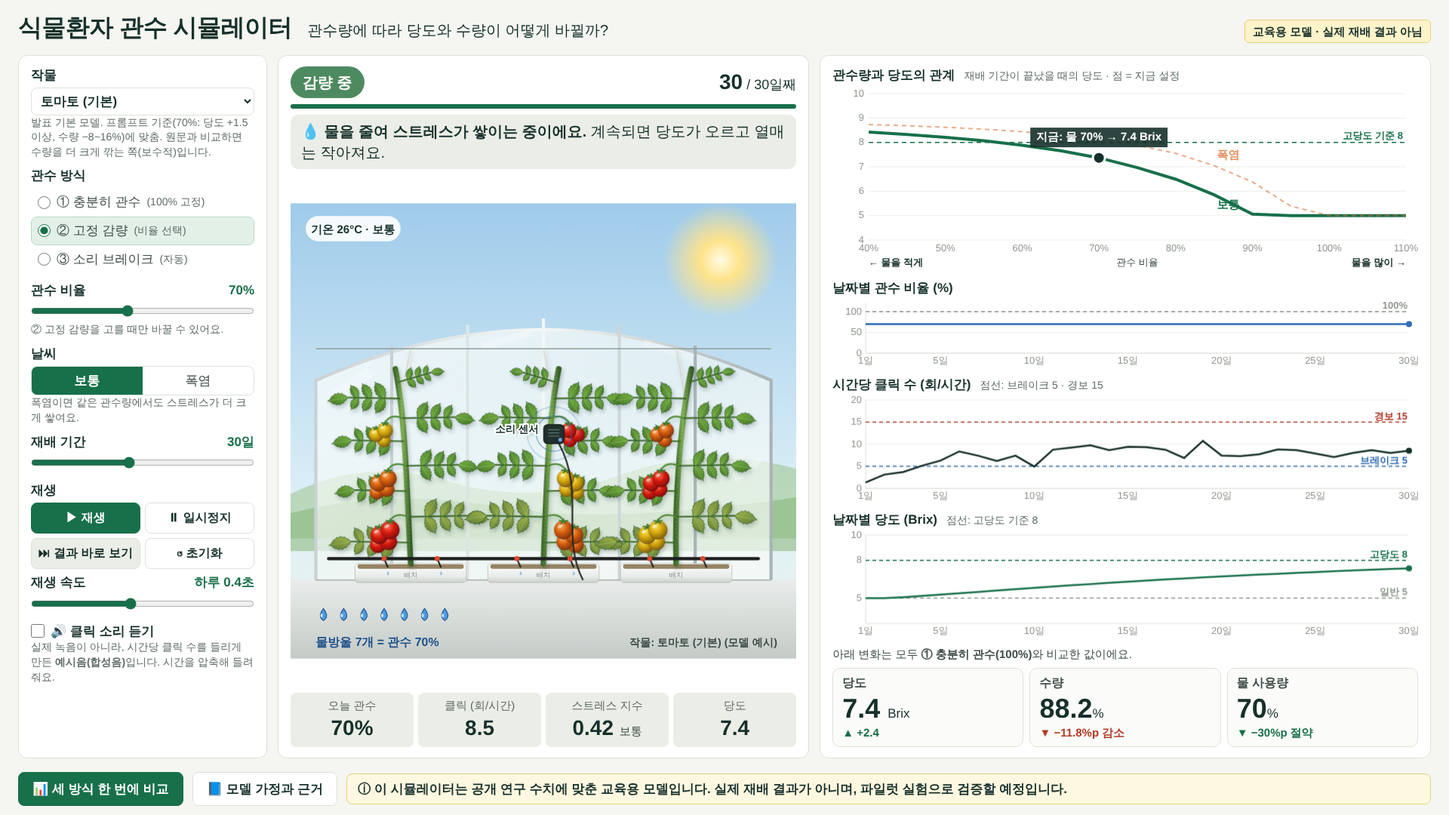
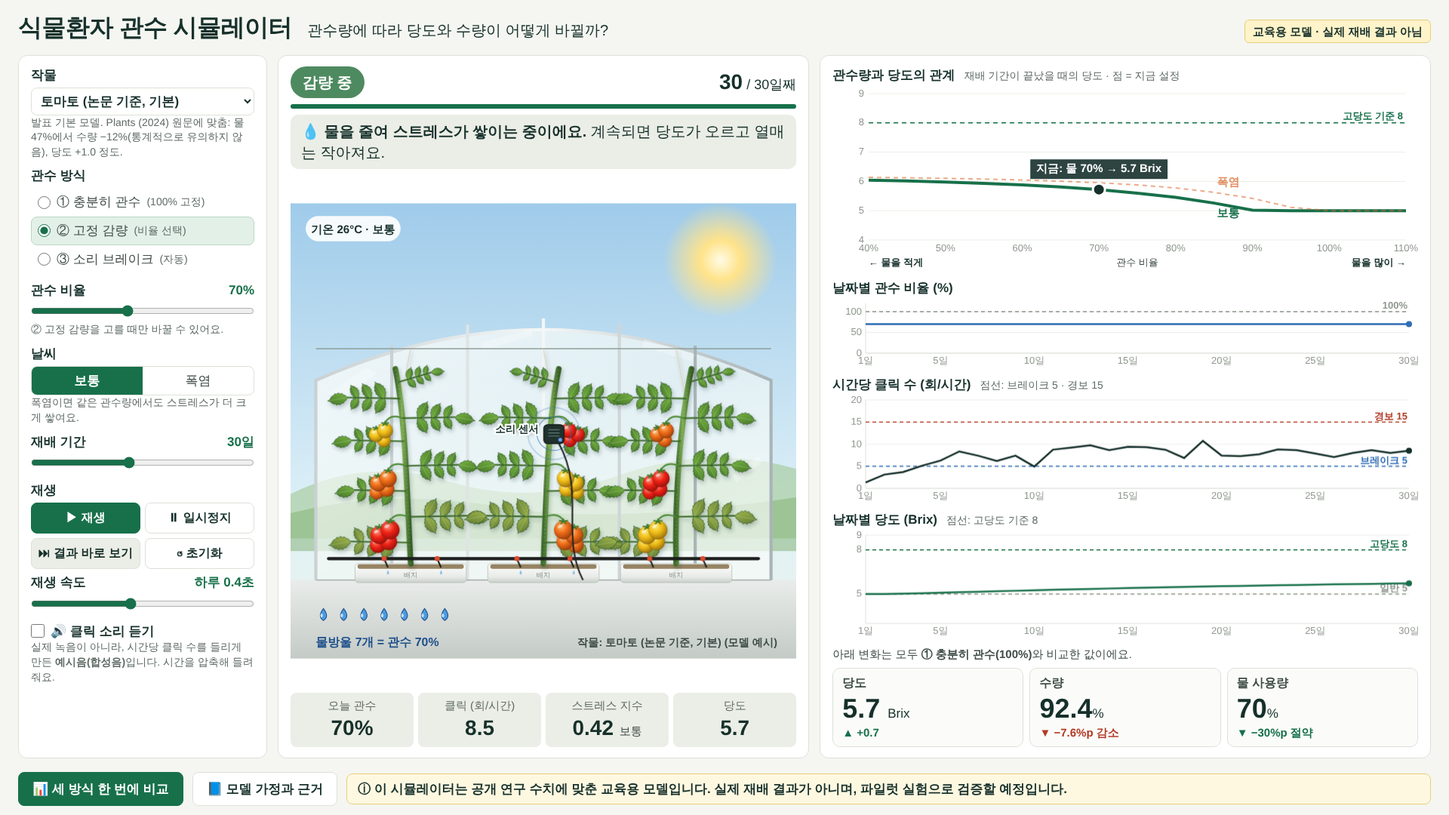
feat: 발표 기본값을 Plants(2024) 원문 기준 토마토로 변경
원문 확인 결과 수량 −12%는 물 47% 조건(통계적으로 유의하지 않음)이었음.
기본 계수와 검사 2·3번을 원문 기준으로 바꾸고, 처음 설정은 '토마토 (처음 초안)'으로 보존.

Claude-Session: https://claude.ai/code/session_01KETNBi2AXWmQph6AbBZ1xA

diff --git a/index.html b/index.html
@@ -192,7 +192,7 @@
     <div>
       <div class="lbl">작물</div>
       <select id="crop" class="cropsel"></select>
-      <div class="note" id="cropNote"></div>
+      <div class="note compact-hide" id="cropNote"></div>
     </div>
 
     <fieldset id="modeSet">
@@ -420,7 +420,7 @@
     // ── 당도 ──
     baseBrix: 5.0,          // 일반 당도 약 5 Brix (범위 3~7) - 이소셜타임즈, 전남농업기술원(2004)
     highBrix: 8.0,          // 고당도 기준 8 Brix 이상 - 이소셜타임즈 (대저 짭짤이 기준)
-    maxBrixRise: 4.0,       // 최대 상승폭 (Brix) - 가정 (5 → 9, 고당도 기준을 넘을 수 있는 폭)
+    maxBrixRise: 1.22,      // 최대 상승폭 (Brix) - Plants 2024 원문에 맞춤 (물 47%에서 약 +1.0 = +20%, 토마토 관수 연구 +12~26% 범위)
     sustainS: 0.15,         // "스트레스가 있다"고 보는 S 하한 - 가정
     sustainMinDays: 3,      // 이 날 수 이상 연속돼야 당도가 오르기 시작 - 가정 ("지속될 때만" 상승, Plants 2024)
     brixTau: 8,             // 포화 함수 g(x)=1-e^(-x/τ)의 τ (스트레스·일) - 가정
@@ -432,9 +432,9 @@
     heatBaseDeficit: 0.05,  // 폭염 시 100% 관수에서도 생기는 부족분 (증산 증가) - 가정
 
     // ── 수량 ──
-    yieldLinear: 0.30,      // S 1당 수량 감소 비율 - 가정 (70% 관수 시 −12% 근처가 되도록, Plants 2024)
+    yieldLinear: 0.193,     // S 1당 수량 감소 비율 - Plants 2024 원문에 맞춤 (물 47%에서 −12%)
     yieldQuadThreshold: 0.45, // 이 S를 넘는 강한 스트레스는 제곱항으로 추가 감소 - 가정
-    yieldQuad: 2.5,         // 제곱항 계수 - 가정 (최대 −24% 대과형 근거, Plants 2024)
+    yieldQuad: 0,           // 강한 스트레스 제곱항 - 토마토는 근거 부족으로 0 (다른 작물은 2.5, 가정)
 
     // ── 클릭 소리 ──
     clickBase: 0.5,         // 정상 식물 시간당 1회 미만 - Khait et al., Cell (2023)
@@ -683,8 +683,24 @@
 
   var CROPS = {
     tomato: {
-      name: '토마토 (기본)', fruit: 'tomato', params: {},
-      note: '발표 기본 모델. 프롬프트 기준(70%: 당도 +1.5 이상, 수량 −8~16%)에 맞춤. 원문과 비교하면 수량을 더 크게 깎는 쪽(보수적)입니다.',
+      name: '토마토 (논문 기준, 기본)', fruit: 'tomato',
+      params: {},
+      note: '발표 기본 모델. Plants (2024) 원문에 맞춤: 물 47%에서 수량 −12%(통계적으로 유의하지 않음), 당도 +1.0 정도.',
+      evidence: [
+        ['수량 (물 47% 공급, 방울형 2020)', '−12% (통계적으로 유의하지 않음)', 'Alomari-Mheidat et al., Plants 13:128 (2024)', '원문 확인'],
+        ['과실 무게', '평균 −7~15%', 'Plants (2024)', '원문 확인'],
+        ['당도', '스트레스가 지속될 때만 증가 (그래프로만 제시, 증가 폭 수치 없음)', 'Plants (2024)', '원문 확인'],
+        ['당도 증가 폭', '+12~26% (방울토마토·부분근권건조 연구)', '토마토 관수 연구들', '검색 요약'],
+        ['강한 스트레스의 추가 손해', '근거 부족 → 제곱항 없앰', '-', '가정']
+      ].concat(CLICK_EVIDENCE),
+      targets: [
+        { label: '물 47%: 수량 −5~−15% (논문 −12%)', ratio: 0.47, days: 30, metric: 'yieldPct', lo: 85, hi: 95, source: 'Plants (2024) 원문', check: true },
+        { label: '물 47%: 당도 +0.6~1.3 Brix (+12~26%)', ratio: 0.47, days: 30, metric: 'brixDelta', lo: 0.6, hi: 1.3, source: '토마토 관수 연구 (검색 요약)', check: true }
+      ]
+    },
+    tomatoDraft: {
+      name: '토마토 (처음 초안)', fruit: 'tomato', params: { maxBrixRise: 4.0, yieldLinear: 0.30, yieldQuad: 2.5 },
+      note: '처음 프롬프트 기준(70%: 당도 +1.5 이상, 수량 −8~16%)에 맞춘 설정. 논문의 −12%는 물 47% 조건이었으므로 원문보다 당도도 수량 손해도 크게 나옵니다. 비교용.',
       evidence: [
         ['일반 당도', '약 5 Brix (일반 범위 3~7)', '이소셜타임즈, 전남농업기술원(2004)', '검색 요약'],
         ['고당도 기준', '8 Brix 이상만 "대저 짭짤이"', '이소셜타임즈 (대저 짭짤이)', '검색 요약'],
@@ -702,25 +718,9 @@
         { label: '참고: 물 47%에서 수량 −12% (유의하지 않음)', ratio: 0.47, days: 30, metric: 'yieldPct', lo: 85, hi: 95, source: 'Plants (2024) 원문', check: false }
       ]
     },
-    tomatoPaper: {
-      name: '토마토 (논문 기준)', fruit: 'tomato',
-      params: { maxBrixRise: 1.22, yieldLinear: 0.193, yieldQuad: 0 },
-      note: 'Plants (2024) 원문에 맞춘 설정: 물 47%에서 수량 −12%, 당도 +1.0 정도. 기본 설정보다 물을 줄여도 손해가 작고 당도도 덜 오릅니다.',
-      evidence: [
-        ['수량 (물 47% 공급, 방울형 2020)', '−12% (통계적으로 유의하지 않음)', 'Alomari-Mheidat et al., Plants 13:128 (2024)', '원문 확인'],
-        ['과실 무게', '평균 −7~15%', 'Plants (2024)', '원문 확인'],
-        ['당도', '스트레스가 지속될 때만 증가 (그래프로만 제시, 증가 폭 수치 없음)', 'Plants (2024)', '원문 확인'],
-        ['당도 증가 폭', '+12~26% (방울토마토·부분근권건조 연구)', '토마토 관수 연구들', '검색 요약'],
-        ['강한 스트레스의 추가 손해', '근거 부족 → 제곱항 없앰', '-', '가정']
-      ].concat(CLICK_EVIDENCE),
-      targets: [
-        { label: '물 47%: 수량 −5~−15% (논문 −12%)', ratio: 0.47, days: 30, metric: 'yieldPct', lo: 85, hi: 95, source: 'Plants (2024) 원문', check: true },
-        { label: '물 47%: 당도 +0.6~1.3 Brix (+12~26%)', ratio: 0.47, days: 30, metric: 'brixDelta', lo: 0.6, hi: 1.3, source: '토마토 관수 연구 (검색 요약)', check: true }
-      ]
-    },
     cherry: {
       name: '방울토마토', fruit: 'cherry',
-      params: { baseBrix: 7, highBrix: 9, maxBrixRise: 1.7, yieldLinear: 0.255 },
+      params: { baseBrix: 7, highBrix: 9, maxBrixRise: 1.7, yieldLinear: 0.255, yieldQuad: 2.5 },
       note: '당도 증가 +12~16%, 가을 작기 수량 감소 5~20%에 맞춤.',
       evidence: [
         ['일반 당도', '7 Brix로 둠', '-', '가정'],
@@ -737,7 +737,7 @@
     },
     strawberry: {
       name: '딸기', fruit: 'strawberry',
-      params: { baseBrix: 9, highBrix: 11, maxBrixRise: 0.4, yieldLinear: 0.84 },
+      params: { baseBrix: 9, highBrix: 11, maxBrixRise: 0.4, yieldLinear: 0.84, yieldQuad: 2.5 },
       note: '수량은 크게 줄고, 당도는 연구에 따라 증가·변화 없음·감소가 모두 보고됨. 당도 상승을 아주 작게 잡음. 물을 줄여 얻는 것이 적은 작물.',
       evidence: [
         ['일반 당도', '9 Brix로 둠', '-', '가정'],
@@ -754,7 +754,7 @@
     },
     melon: {
       name: '멜론', fruit: 'melon',
-      params: { baseBrix: 11, highBrix: 14, maxBrixRise: 3.1, yieldLinear: 0.4 },
+      params: { baseBrix: 11, highBrix: 14, maxBrixRise: 3.1, yieldLinear: 0.4, yieldQuad: 2.5 },
       note: '50% 관수에서 당도 +23%, 상품 수량 −30%(주로 과실 크기 감소)에 맞춤. 품종에 따라 수량 감소가 −24~43%로 다름.',
       evidence: [
         ['일반 당도', '11 Brix로 둠', '-', '가정'],
@@ -771,7 +771,7 @@
     },
     citrus: {
       name: '감귤 (타이벡 피복)', fruit: 'citrus',
-      params: { baseBrix: 10, highBrix: 11, maxBrixRise: 3.8, yieldLinear: 0.23, sustainMinDays: 25, stressAccum: 0.25 },
+      params: { baseBrix: 10, highBrix: 11, maxBrixRise: 3.8, yieldLinear: 0.23, yieldQuad: 2.5, sustainMinDays: 25, stressAccum: 0.25 },
       note: '타이벡으로 빗물을 막아 물을 줄이는 실제 재배법. 피복 후 30~60일 지나야 스트레스가 시작돼 재배 기간을 60일로 늘려 보세요. 관수 50%를 "피복"으로 봄.',
       evidence: [
         ['노지감귤 평균 당도', '9.8~10.5 °Bx', '제주농업기술원, 토양피복재배 실천기술 교육 (2019)', '원문 확인'],
@@ -790,7 +790,7 @@
     },
     pepper: {
       name: '파프리카', fruit: 'pepper',
-      params: { baseBrix: 7, highBrix: 8, maxBrixRise: 0.8, yieldLinear: 0.036 },
+      params: { baseBrix: 7, highBrix: 8, maxBrixRise: 0.8, yieldLinear: 0.036, yieldQuad: 2.5 },
       note: '20% 정도 줄여도 수량이 거의 줄지 않는다는 연구가 있음. 당도 상승은 작게 잡음.',
       evidence: [
         ['일반 당도', '7 Brix로 둠', '-', '가정'],

diff --git a/model.js b/model.js
@@ -18,7 +18,7 @@
     // ── 당도 ──
     baseBrix: 5.0,          // 일반 당도 약 5 Brix (범위 3~7) - 이소셜타임즈, 전남농업기술원(2004)
     highBrix: 8.0,          // 고당도 기준 8 Brix 이상 - 이소셜타임즈 (대저 짭짤이 기준)
-    maxBrixRise: 4.0,       // 최대 상승폭 (Brix) - 가정 (5 → 9, 고당도 기준을 넘을 수 있는 폭)
+    maxBrixRise: 1.22,      // 최대 상승폭 (Brix) - Plants 2024 원문에 맞춤 (물 47%에서 약 +1.0 = +20%, 토마토 관수 연구 +12~26% 범위)
     sustainS: 0.15,         // "스트레스가 있다"고 보는 S 하한 - 가정
     sustainMinDays: 3,      // 이 날 수 이상 연속돼야 당도가 오르기 시작 - 가정 ("지속될 때만" 상승, Plants 2024)
     brixTau: 8,             // 포화 함수 g(x)=1-e^(-x/τ)의 τ (스트레스·일) - 가정
@@ -30,9 +30,9 @@
     heatBaseDeficit: 0.05,  // 폭염 시 100% 관수에서도 생기는 부족분 (증산 증가) - 가정
 
     // ── 수량 ──
-    yieldLinear: 0.30,      // S 1당 수량 감소 비율 - 가정 (70% 관수 시 −12% 근처가 되도록, Plants 2024)
+    yieldLinear: 0.193,     // S 1당 수량 감소 비율 - Plants 2024 원문에 맞춤 (물 47%에서 −12%)
     yieldQuadThreshold: 0.45, // 이 S를 넘는 강한 스트레스는 제곱항으로 추가 감소 - 가정
-    yieldQuad: 2.5,         // 제곱항 계수 - 가정 (최대 −24% 대과형 근거, Plants 2024)
+    yieldQuad: 0,           // 강한 스트레스 제곱항 - 토마토는 근거 부족으로 0 (다른 작물은 2.5, 가정)
 
     // ── 클릭 소리 ──
     clickBase: 0.5,         // 정상 식물 시간당 1회 미만 - Khait et al., Cell (2023)
@@ -281,8 +281,24 @@
 
   var CROPS = {
     tomato: {
-      name: '토마토 (기본)', fruit: 'tomato', params: {},
-      note: '발표 기본 모델. 프롬프트 기준(70%: 당도 +1.5 이상, 수량 −8~16%)에 맞춤. 원문과 비교하면 수량을 더 크게 깎는 쪽(보수적)입니다.',
+      name: '토마토 (논문 기준, 기본)', fruit: 'tomato',
+      params: {},
+      note: '발표 기본 모델. Plants (2024) 원문에 맞춤: 물 47%에서 수량 −12%(통계적으로 유의하지 않음), 당도 +1.0 정도.',
+      evidence: [
+        ['수량 (물 47% 공급, 방울형 2020)', '−12% (통계적으로 유의하지 않음)', 'Alomari-Mheidat et al., Plants 13:128 (2024)', '원문 확인'],
+        ['과실 무게', '평균 −7~15%', 'Plants (2024)', '원문 확인'],
+        ['당도', '스트레스가 지속될 때만 증가 (그래프로만 제시, 증가 폭 수치 없음)', 'Plants (2024)', '원문 확인'],
+        ['당도 증가 폭', '+12~26% (방울토마토·부분근권건조 연구)', '토마토 관수 연구들', '검색 요약'],
+        ['강한 스트레스의 추가 손해', '근거 부족 → 제곱항 없앰', '-', '가정']
+      ].concat(CLICK_EVIDENCE),
+      targets: [
+        { label: '물 47%: 수량 −5~−15% (논문 −12%)', ratio: 0.47, days: 30, metric: 'yieldPct', lo: 85, hi: 95, source: 'Plants (2024) 원문', check: true },
+        { label: '물 47%: 당도 +0.6~1.3 Brix (+12~26%)', ratio: 0.47, days: 30, metric: 'brixDelta', lo: 0.6, hi: 1.3, source: '토마토 관수 연구 (검색 요약)', check: true }
+      ]
+    },
+    tomatoDraft: {
+      name: '토마토 (처음 초안)', fruit: 'tomato', params: { maxBrixRise: 4.0, yieldLinear: 0.30, yieldQuad: 2.5 },
+      note: '처음 프롬프트 기준(70%: 당도 +1.5 이상, 수량 −8~16%)에 맞춘 설정. 논문의 −12%는 물 47% 조건이었으므로 원문보다 당도도 수량 손해도 크게 나옵니다. 비교용.',
       evidence: [
         ['일반 당도', '약 5 Brix (일반 범위 3~7)', '이소셜타임즈, 전남농업기술원(2004)', '검색 요약'],
         ['고당도 기준', '8 Brix 이상만 "대저 짭짤이"', '이소셜타임즈 (대저 짭짤이)', '검색 요약'],
@@ -300,25 +316,9 @@
         { label: '참고: 물 47%에서 수량 −12% (유의하지 않음)', ratio: 0.47, days: 30, metric: 'yieldPct', lo: 85, hi: 95, source: 'Plants (2024) 원문', check: false }
       ]
     },
-    tomatoPaper: {
-      name: '토마토 (논문 기준)', fruit: 'tomato',
-      params: { maxBrixRise: 1.22, yieldLinear: 0.193, yieldQuad: 0 },
-      note: 'Plants (2024) 원문에 맞춘 설정: 물 47%에서 수량 −12%, 당도 +1.0 정도. 기본 설정보다 물을 줄여도 손해가 작고 당도도 덜 오릅니다.',
-      evidence: [
-        ['수량 (물 47% 공급, 방울형 2020)', '−12% (통계적으로 유의하지 않음)', 'Alomari-Mheidat et al., Plants 13:128 (2024)', '원문 확인'],
-        ['과실 무게', '평균 −7~15%', 'Plants (2024)', '원문 확인'],
-        ['당도', '스트레스가 지속될 때만 증가 (그래프로만 제시, 증가 폭 수치 없음)', 'Plants (2024)', '원문 확인'],
-        ['당도 증가 폭', '+12~26% (방울토마토·부분근권건조 연구)', '토마토 관수 연구들', '검색 요약'],
-        ['강한 스트레스의 추가 손해', '근거 부족 → 제곱항 없앰', '-', '가정']
-      ].concat(CLICK_EVIDENCE),
-      targets: [
-        { label: '물 47%: 수량 −5~−15% (논문 −12%)', ratio: 0.47, days: 30, metric: 'yieldPct', lo: 85, hi: 95, source: 'Plants (2024) 원문', check: true },
-        { label: '물 47%: 당도 +0.6~1.3 Brix (+12~26%)', ratio: 0.47, days: 30, metric: 'brixDelta', lo: 0.6, hi: 1.3, source: '토마토 관수 연구 (검색 요약)', check: true }
-      ]
-    },
     cherry: {
       name: '방울토마토', fruit: 'cherry',
-      params: { baseBrix: 7, highBrix: 9, maxBrixRise: 1.7, yieldLinear: 0.255 },
+      params: { baseBrix: 7, highBrix: 9, maxBrixRise: 1.7, yieldLinear: 0.255, yieldQuad: 2.5 },
       note: '당도 증가 +12~16%, 가을 작기 수량 감소 5~20%에 맞춤.',
       evidence: [
         ['일반 당도', '7 Brix로 둠', '-', '가정'],
@@ -335,7 +335,7 @@
     },
     strawberry: {
       name: '딸기', fruit: 'strawberry',
-      params: { baseBrix: 9, highBrix: 11, maxBrixRise: 0.4, yieldLinear: 0.84 },
+      params: { baseBrix: 9, highBrix: 11, maxBrixRise: 0.4, yieldLinear: 0.84, yieldQuad: 2.5 },
       note: '수량은 크게 줄고, 당도는 연구에 따라 증가·변화 없음·감소가 모두 보고됨. 당도 상승을 아주 작게 잡음. 물을 줄여 얻는 것이 적은 작물.',
       evidence: [
         ['일반 당도', '9 Brix로 둠', '-', '가정'],
@@ -352,7 +352,7 @@
     },
     melon: {
       name: '멜론', fruit: 'melon',
-      params: { baseBrix: 11, highBrix: 14, maxBrixRise: 3.1, yieldLinear: 0.4 },
+      params: { baseBrix: 11, highBrix: 14, maxBrixRise: 3.1, yieldLinear: 0.4, yieldQuad: 2.5 },
       note: '50% 관수에서 당도 +23%, 상품 수량 −30%(주로 과실 크기 감소)에 맞춤. 품종에 따라 수량 감소가 −24~43%로 다름.',
       evidence: [
         ['일반 당도', '11 Brix로 둠', '-', '가정'],
@@ -369,7 +369,7 @@
     },
     citrus: {
       name: '감귤 (타이벡 피복)', fruit: 'citrus',
-      params: { baseBrix: 10, highBrix: 11, maxBrixRise: 3.8, yieldLinear: 0.23, sustainMinDays: 25, stressAccum: 0.25 },
+      params: { baseBrix: 10, highBrix: 11, maxBrixRise: 3.8, yieldLinear: 0.23, yieldQuad: 2.5, sustainMinDays: 25, stressAccum: 0.25 },
       note: '타이벡으로 빗물을 막아 물을 줄이는 실제 재배법. 피복 후 30~60일 지나야 스트레스가 시작돼 재배 기간을 60일로 늘려 보세요. 관수 50%를 "피복"으로 봄.',
       evidence: [
         ['노지감귤 평균 당도', '9.8~10.5 °Bx', '제주농업기술원, 토양피복재배 실천기술 교육 (2019)', '원문 확인'],
@@ -388,7 +388,7 @@
     },
     pepper: {
       name: '파프리카', fruit: 'pepper',
-      params: { baseBrix: 7, highBrix: 8, maxBrixRise: 0.8, yieldLinear: 0.036 },
+      params: { baseBrix: 7, highBrix: 8, maxBrixRise: 0.8, yieldLinear: 0.036, yieldQuad: 2.5 },
       note: '20% 정도 줄여도 수량이 거의 줄지 않는다는 연구가 있음. 당도 상승은 작게 잡음.',
       evidence: [
         ['일반 당도', '7 Brix로 둠', '-', '가정'],

diff --git a/test.js b/test.js
@@ -25,19 +25,21 @@ check('Brix 4.8~5.5', s100.brix >= 4.8 && s100.brix <= 5.5, 'Brix ' + f(s100.bri
 check('수량 97~100%', y100 >= 97 && y100 <= 100, f(y100, 1) + '%');
 check('평균 클릭 < 1회/시간', s100.meanClicks < 1, f(s100.meanClicks) + '회');
 
-// 2. 70% 고정
+// 2. 70% 고정 (Plants 2024 원문 기준으로 바꿈: 원문의 −12%는 물 47% 조건)
 var r70 = M.run(opt({ mode: 'fixed', ratio: 0.7 }));
 var s70 = r70.summary;
 console.log('2. 70% 고정, 30일, 보통');
-check('수량 −8~−16%', s70.yieldPct - 100 <= -8 && s70.yieldPct - 100 >= -16, f(s70.yieldPct - 100, 1) + '%');
-check('Brix +1.5 이상', s70.brixDelta >= 1.5, '+' + f(s70.brixDelta));
+check('수량 −3~−10% (물 47%의 −12%보다 작게)', s70.yieldPct - 100 <= -3 && s70.yieldPct - 100 >= -10, f(s70.yieldPct - 100, 1) + '%');
+check('Brix +0.4 이상', s70.brixDelta >= 0.4, '+' + f(s70.brixDelta));
 
-// 3. 50% 고정
+// 3. 물 47% 고정 = Plants 2024 방울토마토 2020 조건
+var r47 = M.run(opt({ mode: 'fixed', ratio: 0.47 }));
+var s47 = r47.summary;
 var r50 = M.run(opt({ mode: 'fixed', ratio: 0.5 }));
-var s50 = r50.summary;
-console.log('3. 50% 고정, 30일, 보통');
-check('수량 −20% 이하', s50.yieldPct - 100 <= -20, f(s50.yieldPct - 100, 1) + '%');
-check('70%보다 Brix 높음', s50.brix > s70.brix, f(s50.brix) + ' > ' + f(s70.brix));
+console.log('3. 물 47% 고정, 30일, 보통 (Plants 2024: 수량 −12%)');
+check('수량 −5~−15%', s47.yieldPct - 100 <= -5 && s47.yieldPct - 100 >= -15, f(s47.yieldPct - 100, 1) + '%');
+check('Brix +0.6~1.3 (+12~26%)', s47.brixDelta >= 0.6 && s47.brixDelta <= 1.3, '+' + f(s47.brixDelta));
+check('50%가 70%보다 Brix 높고 수량 낮음', r50.summary.brix > s70.brix && r50.summary.yieldPct < s70.yieldPct, f(r50.summary.brix) + ' > ' + f(s70.brix));
 
 // 4. 단수 7일
 var r0 = M.simulate({ mode: 'fixed', ratio: 0, days: 7, weather: 'normal', seed: 42 });
@@ -103,7 +105,7 @@ Object.keys(M.CROPS).forEach(function (k) {
     else console.log('  참고  ' + M.CROPS[k].name + ': ' + v.target.label + '  (모델 ' + f(v.value) + (v.ok ? ', 범위 안' : ', 범위 밖') + ')');
   });
 });
-['cherry', 'strawberry', 'melon', 'citrus', 'pepper', 'tomatoPaper'].forEach(function (k) {
+['cherry', 'strawberry', 'melon', 'citrus', 'pepper', 'tomatoDraft'].forEach(function (k) {
   var cv = M.brixCurve({ crop: k, days: 60, weather: 'normal', seed: 42 }, rs);
   var ok = cv.every(function (pt, i) { return i === 0 || pt.brix <= cv[i - 1].brix + 1e-9; });
   check(M.CROPS[k].name + ': 관수↓ → 당도↑ (단조)', ok);

diff --git a/README.md b/README.md
@@ -10,7 +10,7 @@
 - **화면**: `index.html`을 더블클릭하면 크롬·엣지에서 바로 열립니다. 인터넷 연결이나 외부 라이브러리가 필요 없습니다.
   `index.html` 안에 계산 로직이 들어 있어서 **이 파일 하나만 옮겨도** 열립니다.
 - **계산 로직을 고쳤을 때**: `model.js`를 고친 뒤 `node build.js`를 실행하면 `index.html` 안의 로직이 갱신됩니다. `node test.js`가 둘이 같은지 확인합니다.
-- **검증**: `node test.js` (Node.js 필요). 11개 항목, 41개 세부 검사를 자동으로 확인하고 통과/실패를 출력합니다.
+- **검증**: `node test.js` (Node.js 필요). 11개 항목, 42개 세부 검사를 자동으로 확인하고 통과/실패를 출력합니다.
 
 | 파일 | 역할 |
 | --- | --- |
@@ -24,8 +24,9 @@
 ## 발표 시연 순서
 
 1. **① 충분히 관수** 선택 → ⏭ 결과 바로 보기. 당도 5.0 Brix, 클릭은 시간당 1회 미만으로 조용합니다.
-2. **② 고정 감량** 선택 → 슬라이더를 **70%**로: 관계 그래프의 점이 왼쪽 위로 이동하며 당도 +2.4. 이어서 **50%**로: 당도는 더 오르지만 수량이 −24%로 크게 줄고, 잎이 처지기 시작합니다.
-3. **폭염** 켜기 → 관계 그래프의 곡선이 위로 올라갑니다(같은 물에서도 스트레스가 더 큼). 50%에서는 클릭이 경보선(15)을 넘고 화면 테두리가 빨갛게 깜빡입니다.
+2. **② 고정 감량** 선택 → 슬라이더를 **70%**로: 관계 그래프의 점이 왼쪽 위로 이동하며 당도 +0.7, 수량 −8%. 이어서 **50%**로: 당도 +1.0, 수량 −12%. 클릭이 경보선(15)을 넘기 시작하고 잎이 처집니다.
+   - 말할 점: 물만 줄여서는 고당도 기준(8 Brix)에 못 미칩니다. 대저 짭짤이처럼 8 Brix를 넘기려면 염류 같은 다른 조건이 필요합니다.
+3. **폭염** 켜기 → 관계 그래프의 곡선이 위로 올라갑니다(같은 물에서도 스트레스가 더 큼). 50%에서 수량이 −14%로 더 줄고, 경보가 뜨면 화면 테두리가 빨갛게 깜빡입니다.
 4. **③ 소리 브레이크** 선택 → ▶ 재생. 하루 10%p씩 줄이다가 클릭이 대조 구역보다 늘면 "멈춤 (소리 증가)"로 바뀌고 한 계단 복귀합니다. "클릭 소리 듣기"를 켜면 예시음이 들립니다.
 5. **📊 세 방식 한 번에 비교** → 같은 조건의 3그룹(100% / 70% 고정 / 소리 브레이크)의 당도·수량·물 사용량을 막대그래프와 표로 비교. CSV·PNG로 저장해 슬라이드에 붙입니다.
 
@@ -50,7 +51,7 @@
 | --- | --- | --- | --- |
 | `baseBrix` | 5.0 | 일반 당도 | 이소셜타임즈, 전남농업기술원(2004) |
 | `highBrix` | 8.0 | 고당도 기준 | 이소셜타임즈 |
-| `maxBrixRise` | 4.0 | 최대 당도 상승폭 | 가정 |
+| `maxBrixRise` | 1.22 | 최대 당도 상승폭 | Plants 2024 원문에 맞춤 (물 47% → +1.0 Brix, +20%) |
 | `sustainS` | 0.15 | 스트레스로 인정하는 S 하한 | 가정 |
 | `sustainMinDays` | 3 | 당도 상승에 필요한 연속 일수 | 가정 ("지속" 조건, Plants 2024) |
 | `brixTau` | 8 | 당도 포화 함수의 τ | 가정 |
@@ -58,9 +59,9 @@
 | `stressRecover` | 0.3 | 스트레스 회복계수 | 가정 |
 | `heatMultiplier` | 1.4 | 폭염 시 부족분 가중치 | 가정 |
 | `heatBaseDeficit` | 0.05 | 폭염 시 100% 관수에서도 생기는 부족분 | 가정 |
-| `yieldLinear` | 0.30 | S에 비례한 수량 감소 | 가정 (70% 관수 → −12% 근처, Plants 2024) |
+| `yieldLinear` | 0.193 | S에 비례한 수량 감소 | Plants 2024 원문에 맞춤 (물 47% → −12%) |
 | `yieldQuadThreshold` | 0.45 | 강한 스트레스 임계 S | 가정 |
-| `yieldQuad` | 2.5 | 강한 스트레스 제곱항 계수 | 가정 (최대 −24%, Plants 2024) |
+| `yieldQuad` | 0 | 강한 스트레스 제곱항 계수 | 토마토는 근거 부족으로 0 (다른 작물은 2.5, 가정) |
 | `clickBase` | 0.5 | 정상 클릭 (회/시간) | Khait et al., Cell (2023) |
 | `clickMax` | 45 | S=1일 때 최대 클릭 | 가정 (평균 35.4회 근처, Cell 2023) |
 | `clickExp` | 2 | 클릭의 S 지수 | 가정 |
@@ -79,8 +80,8 @@
 
 1. **스트레스 S (0~1)**: 부족분 `d = max(0, 1 − 관수비율)`, 폭염이면 `d × 1.4 + 0.05`.
    `S += 축적 × d × (1 − S) − 회복 × (1 − d) × S`
-2. **당도**: `5 + 4 × (1 − e^(−x/8))`. `x`는 S ≥ 0.15가 3일 이상 연속된 날의 `(S − 0.15)` 누적. 짧은 스트레스는 당도를 거의 못 올립니다.
-3. **수량**: 매일 `1 − 0.30·S − 2.5·max(0, S − 0.45)²`, 기간 평균.
+2. **당도**: `5 + 1.22 × (1 − e^(−x/8))`. `x`는 S ≥ 0.15가 3일 이상 연속된 날의 `(S − 0.15)` 누적. 짧은 스트레스는 당도를 거의 못 올립니다.
+3. **수량**: 매일 `1 − 0.193·S − b·max(0, S − 0.45)²`, 기간 평균 (토마토는 b = 0, 다른 작물은 2.5).
 4. **클릭**: `0.5 + 45 × S² × 피로 × (1 + 노이즈)`. 피로는 S ≥ 0.8인 날이 2일을 넘으면 `e^(−초과일/3)`로 줄어 최고점 이후 감소(비단조)를 재현합니다. 노이즈는 시드 고정 난수(mulberry32).
 5. **물 사용량**: 관수 비율의 누적 평균 (100% 관수 대비).
 6. **소리 브레이크**: 100%에서 시작해 하루 10%p씩 감량. 같은 날씨의 대조 구역(100%) 클릭을 함께 계산하고,
@@ -89,8 +90,12 @@
 
 ## 프롬프트 대비 조정한 점과 이유
 
-`node test.js`는 처음 정한 계수로 18개 검사 모두 통과해서, 검사 통과를 위해 계수를 다시 조정한 것은 없습니다.
-다만 아래 두 가지는 프롬프트의 예시 식에서 바꾼 부분입니다.
+- **기본 토마토를 Plants (2024) 원문 기준으로 바꿈**: 처음 프롬프트는 "70% 관수 → 수량 −12%, 당도 +1.5 이상"을 요구했지만, 원문을 확인해 보니 −12%는 **물 47%** 조건이었고 통계적으로 유의하지 않았습니다. 그래서 검사 2·3번을 원문 기준으로 바꿨습니다.
+  - 검사 2: 70% → 수량 −3~−10%, 당도 +0.4 이상 (전: 수량 −8~−16%, 당도 +1.5 이상)
+  - 검사 3: 물 47% → 수량 −5~−15%, 당도 +0.6~1.3 (전: 50% → 수량 −20% 이하)
+  - 처음 설정은 작물 목록의 "토마토 (처음 초안)"으로 남겨 두었습니다.
+
+아래 두 가지는 프롬프트의 예시 식에서 바꾼 부분입니다.
 
 - **스트레스 식에 `(1 − S)`, `S`를 곱함**: 예시 식 `S += 축적 × d − 회복 × (1 − d)`은 균형점이 없어서, 70%든 50%든 조금만 지나면 S가 1에 붙어 두 경우의 수량·당도가 같아집니다.
   곱셈 항을 넣어 관수 비율마다 S가 일정 수준으로 수렴하게 했습니다 (70% → 약 0.42, 50% → 약 0.63, 100% → 0).
@@ -102,8 +107,8 @@
 
 | 작물 | 맞춘 목표 | 핵심 근거 | 확인 수준 |
 | --- | --- | --- | --- |
-| 토마토 (기본) | 70%: 당도 +1.5 이상, 수량 −8~16% | 처음 프롬프트 기준 | — |
-| 토마토 (논문 기준) | 물 47%: 수량 −12%, 당도 +1.0 | Alomari-Mheidat et al., *Plants* 13:128 (2024) | 원문 확인 |
+| 토마토 (논문 기준, 기본) | 물 47%: 수량 −12%, 당도 +1.0 | Alomari-Mheidat et al., *Plants* 13:128 (2024) | 원문 확인 |
+| 토마토 (처음 초안) | 70%: 당도 +1.5 이상, 수량 −8~16% | 처음 프롬프트 기준 (비교용) | — |
 | 방울토마토 | 70%: 당도 +12~16%, 수량 −5~20% | *Agriculture* (2021), Summerbrix·Lazarino 연구 | 초록·검색 요약 |
 | 딸기 | 70%: 수량 −30~36%, 당도 변화 작음 | *Front. Hortic.* (2025), *Appl. Fruit Sci.* (2025), *HEB* (2023) | 초록·검색 요약 |
 | 멜론 | 50%: 당도 +23%, 상품 수량 −30% | *Agric. Water Manag.* (2014), 텍사스 2년 시험 | 초록 확인 |
@@ -112,7 +117,7 @@
 
 ### 원문을 확인하고 알게 된 점
 
-- **Plants (2024)**: 프롬프트의 "−12~13%, −24%"는 실제 논문 수치가 맞지만, 물을 대조구의 **47%·13%·15%**만 준 조건이었고 **통계적으로 유의하지 않은** 감소였습니다. 그래서 "토마토 (기본)"은 원문보다 수량을 크게 깎는(보수적인) 모델이며, 원문에 맞춘 "토마토 (논문 기준)"을 따로 두었습니다.
+- **Plants (2024)**: 프롬프트의 "−12~13%, −24%"는 실제 논문 수치가 맞지만, 물을 대조구의 **47%·13%·15%**만 준 조건이었고 **통계적으로 유의하지 않은** 감소였습니다. 그래서 원문에 맞춘 "토마토 (논문 기준)"을 발표 기본값으로 쓰고, 처음 설정은 "토마토 (처음 초안)"으로 남겼습니다.
 - **Cell (2023)**: 건조 토마토 35.4±6.1회/시간, 담배 11.0±1.4회/시간, 대조군 1회 미만, 물을 준 뒤 4~5일 증가 후 감소를 원문에서 확인했습니다. 딸기·멜론·감귤·파프리카의 소리는 **측정 자료가 없어** 토마토 값을 그대로 씁니다(가정).
 - **멜론**: 연구 조건은 70%가 아니라 **50% ETc**였습니다.
 - **딸기**: 정식 직후부터 물을 줄이면 환원당이 −25.1%로 **오히려 줄었다**는 국내 연구가 있어, 당도 상승을 아주 작게 잡았습니다.
@@ -124,11 +129,11 @@
 | 방식 | 날씨 | 당도 (Brix) | 수량 (일반 대비) | 물 사용량 | 경보 |
 | --- | --- | --- | --- | --- | --- |
 | ① 충분히 관수 (100%) | 보통 | 5.00 | 100.0% | 100% | 0회 |
-| ② 고정 감량 (70%) | 보통 | 7.37 (+2.37) | 88.2% | 70% | 0회 |
-| ③ 소리 브레이크 | 보통 | 5.63 (+0.63) | 94.1% | 86% | 0회 |
+| ② 고정 감량 (70%) | 보통 | 5.72 (+0.72) | 92.4% | 70% | 0회 |
+| ③ 소리 브레이크 | 보통 | 5.19 (+0.19) | 96.2% | 86% | 0회 |
 | ① 충분히 관수 (100%) | 폭염 | 5.00 | 100.0% | 100% | 0회 |
-| ② 고정 감량 (70%) | 폭염 | 8.13 (+3.13) | 80.4% | 70% | 18회 |
-| ③ 소리 브레이크 | 폭염 | 5.81 (+0.81) | 96.5% | 94% | 0회 |
+| ② 고정 감량 (70%) | 폭염 | 5.95 (+0.95) | 90.4% | 70% | 18회 |
+| ③ 소리 브레이크 | 폭염 | 5.25 (+0.25) | 97.8% | 94% | 0회 |
 
-관수를 줄일수록 당도는 오르고 수량은 줄어듭니다. 소리 브레이크는 당도 상승이 작은 대신 수량을 지키고, 폭염에서도 경보가 없습니다.
+관수를 줄일수록 당도는 오르고 수량은 줄어듭니다. 다만 원문 기준으로는 그 폭이 크지 않습니다(70%에서 당도 +0.7, 수량 −8%). 소리 브레이크는 당도 상승이 작은 대신 수량을 지키고, 폭염에서도 경보가 없습니다.
 소리 브레이크가 이기도록 계수를 맞추지 않았고, 결과는 가정값(특히 `brakeDelta`)에 따라 달라집니다.
